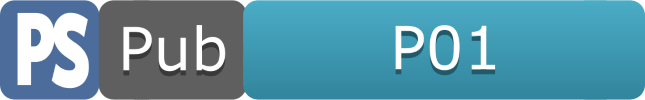
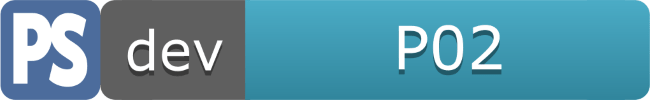
s-P01.01.P02: Staged commit
Staged commit

All revisions updated to match published commit:
 - index.html
 - 00-00-scroll.js
 - 01-00-introduction.html
 - 01-00-scroll.js
 - 01-01-howtouse.html
 - 01-01-scroll.js
 - 01-02-paying.html
 - 01-02-scroll.js
 - 80-00-finally.html
 - 80-00-scroll.js
 - 02-00-concept.html
 - 03-00-install.html
 - 04-00-linking.html
 - 05-00-brackets.html
 - 06-00-example.html
 - 07-00-regression.html
 - 08-00-remotes.html
 - 09-00-github.html
 - 10-00-collaboration.html
 - 90-00-appendices.html
 - style.css

diff --git a/5-2361-website-source/01-02-paying.html b/5-2361-website-source/01-02-paying.html
@@ -41,6 +41,8 @@ This is a complete summary of all software modifications.
 
 Date          Issue        Author         Reason for Modification
 *******************************************************************************
+10 Jun 2017   P02          M. Gledhill    Published
+
 08 Jun 2017   t-P01.01.04  M. Gledhill    Top navigation link corrected
 
 06 Jun 2017   d-P01.01.03  M. Gledhill    Page created
@@ -147,7 +149,7 @@ Date          Issue        Author         Reason for Modification
             <div class="rg-row title-row">                      <!-- Start of title row (section number & heading) -->
                   <div class="rg-col rg-span1-5">
                     <aside class="aside-left aside-left-rev" style="margin-top: 0.1rem;">       <!-- Start of left side bar -->
-                        <img src="11-resources/02-images/02-build-status//branch-d-01-intro-bl-min.svg"> <!-- Build status -->
+                        <img src="11-resources/02-images/02-build-status/build-badge.svg"> <!-- Build status -->
                     </aside>                                    <!-- End of left side bar   -->
                 </div>                                          <!-- End of Left column -->
                 <div class="rg-col rg-span3-5 title-centre">    <!-- Start of title (centre column) -->
@@ -156,7 +158,7 @@ Date          Issue        Author         Reason for Modification
                 </div>                                          <!-- End of title (centre column) -->
                 <div class="rg-col rg-span1-5">                 <!-- Start of right column   -->
                     <aside class="aside-right-rev">              <!-- Start of right side bar -->
-<!--REVISION-->         <p>Rev: 01-02&nbsp;&mdash;&nbsp;t-P01.01.04</p>           <!-- Revision information    -->
+<!--REVISION-->         <p>Rev: 01-02&nbsp;&mdash;&nbsp;P02</p>           <!-- Revision information    -->
                     </aside>                                    <!-- End of right side bar   -->
                 </div>                                          <!-- End of right column     -->
             </div>                                              <!-- End of title row (section number & heading) -->

diff --git a/5-2361-website-source/01-00-introduction.html b/5-2361-website-source/01-00-introduction.html
@@ -41,6 +41,8 @@ This is a complete summary of all software modifications.
 
 Date          Issue        Author         Reason for Modification
 *******************************************************************************
+10 Jun 2017   P02          M. Gledhill    Published
+
 08 Jun 2017   t-P01.01.04  M. Gledhill    Top navigation link corrected
                                           Aside changed to a title
 
@@ -148,7 +150,7 @@ Date          Issue        Author         Reason for Modification
             <div class="rg-row title-row">                      <!-- Start of title row (section number & heading) -->
                   <div class="rg-col rg-span1-5">
                     <aside class="aside-left aside-left-rev" style="margin-top: 0.1rem;">       <!-- Start of left side bar -->
-                        <img src="11-resources/02-images/02-build-status/branch-d-01-intro-bl-min.svg"> <!-- Build status -->
+                        <img src="11-resources/02-images/02-build-status/build-badge.svg"> <!-- Build status -->
                     </aside>                                    <!-- End of left side bar   -->
                 </div>                                          <!-- End of Left column -->
                 <div class="rg-col rg-span3-5 title-centre">    <!-- Start of title (centre column) -->
@@ -157,7 +159,7 @@ Date          Issue        Author         Reason for Modification
                 </div>                                          <!-- End of title (centre column) -->
                 <div class="rg-col rg-span1-5">                 <!-- Start of right column  -->
                     <aside class="aside-right-rev">              <!-- Start of right side bar -->
-<!--REVISION-->         <p>Rev: 01-00&nbsp;&mdash;&nbsp;t-P01.01.04</p>   <!-- Revision information    -->
+<!--REVISION-->         <p>Rev: 01-00&nbsp;&mdash;&nbsp;P02</p>   <!-- Revision information    -->
                     </aside>                                    <!-- End of right side bar   -->
                 </div>                                          <!-- End of right column  -->
             </div>                                              <!-- End of title row (section number & heading) -->

diff --git a/5-2361-website-source/01-01-howtouse.html b/5-2361-website-source/01-01-howtouse.html
@@ -41,6 +41,8 @@ This is a complete summary of all software modifications.
 
 Date          Issue        Author         Reason for Modification
 *******************************************************************************
+10 Jun 2017   P02          M. Gledhill    Published
+
 06 Jun 2017   t-P01.01.04  M. Gledhill    Minor proofreading corrections
 
 06 Jun 2017   d-P01.01.02  M. Gledhill    Page created
@@ -146,7 +148,7 @@ Date          Issue        Author         Reason for Modification
             <div class="rg-row title-row">                      <!-- Start of title row (section number & heading) -->
                   <div class="rg-col rg-span1-5">
                     <aside class="aside-left aside-left-rev" style="margin-top: 0.1rem;">       <!-- Start of left side bar -->
-                        <img src="11-resources/02-images/02-build-status/branch-d-01-intro-bl-min.svg"> <!-- Build status -->
+                        <img src="11-resources/02-images/02-build-status/build-badge.svg"> <!-- Build status -->
                     </aside>                                    <!-- End of left side bar   -->
                 </div>                                          <!-- End of Left column -->
                 <div class="rg-col rg-span3-5 title-centre">    <!-- Start of title (centre column) -->
@@ -155,7 +157,7 @@ Date          Issue        Author         Reason for Modification
                 </div>                                          <!-- End of title (centre column) -->
                 <div class="rg-col rg-span1-5">                 <!-- Start of right column   -->
                     <aside class="aside-right-rev">              <!-- Start of right side bar -->
-<!--REVISION-->         <p>Rev: 01-01&nbsp;&mdash;&nbsp;t-P01.01.04</p>   <!-- Revision information    -->
+<!--REVISION-->         <p>Rev: 01-01&nbsp;&mdash;&nbsp;P02</p>   <!-- Revision information    -->
                     </aside>                                    <!-- End of right side bar   -->
                 </div>                                          <!-- End of right column     -->
             </div>                                              <!-- End of title row (section number & heading) -->

diff --git a/5-2361-website-source/80-00-finally.html b/5-2361-website-source/80-00-finally.html
@@ -41,6 +41,8 @@ This is a complete summary of all software modifications.
 
 Date          Issue        Author         Reason for Modification
 *******************************************************************************
+10 Jun 2017   P02          M. Gledhill    Published
+
 10 Jun 2017   t-P01.01.04  M. Gledhill    Navigation links set to correct
                                           locations
 
@@ -152,7 +154,7 @@ Date          Issue        Author         Reason for Modification
             <div class="rg-row title-row">                      <!-- Start of title row (section number & heading) -->
                 <div class="rg-col rg-span1-5">
                     <aside class="aside-left aside-left-rev" style="margin-top: 0.1rem;">            <!-- Start of left side bar -->
-                        <img src="11-resources/02-images/02-build-status/branch-d-01-intro-bl-min.svg">                 <!-- Build status -->
+                        <img src="11-resources/02-images/02-build-status/build-badge.svg">                 <!-- Build status -->
                     </aside>                                    <!-- End of right side bar   -->
 
                 </div>           <!-- End of Left column -->
@@ -162,7 +164,7 @@ Date          Issue        Author         Reason for Modification
                 </div>                                          <!-- End of title (centre column) -->
                 <div class="rg-col rg-span1-5">                 <!-- Start of right column   -->
                     <aside class="aside-right-rev">              <!-- Start of right side bar -->
-<!--REVISION-->         <p>Rev: 80-00&nbsp;&mdash;&nbsp;t-P01.01.04</p>
+<!--REVISION-->         <p>Rev: 80-00&nbsp;&mdash;&nbsp;P02</p>
                     </aside>                                    <!-- End of right side bar   -->
                 </div>                                          <!-- End of right column     -->
             </div>                                              <!-- End of title row (section number & heading) -->

diff --git a/5-2361-website-source/index.html b/5-2361-website-source/index.html
@@ -41,6 +41,8 @@ This is a complete summary of all software modifications.
 
 Date          Issue        Author         Reason for Modification
 *******************************************************************************
+10 Jun 2017   P02          M. Gledhill    Published (Section 01 added)
+
 10 Jun 2017   t-P01.01.04  M. Gledhill    TOC updated for section 01
 
 04 Jun 2017   P01          M. Gledhill    First published
@@ -150,7 +152,7 @@ Date          Issue        Author         Reason for Modification
             <div class="rg-row">                                <!-- Start of cover row -->
                 <div class="rg-col rg-span1-5">
                     <aside class="aside-left aside-left-rev" style="margin-top: 1.6rem;">            <!-- Start of left side bar -->
-                        <img src="11-resources/02-images/02-build-status/branch-d-01-intro-bl-min.svg">                 <!-- Build status -->
+                        <img src="11-resources/02-images/02-build-status/build-badge.svg">                 <!-- Build status -->
                     </aside>                                    <!-- End of right side bar   -->
 
                 </div>           <!-- End of Left column -->
@@ -167,7 +169,7 @@ Date          Issue        Author         Reason for Modification
                 </div>                                          <!-- End of cover area (centre column -->
                 <div class="rg-col rg-span1-5">                 <!-- Start of right column  -->
                     <aside class="aside-right-rev" style="margin-top: 1.6rem">             <!-- Start of right side bar -->
-<!--REVISION-->         <p>Rev: 1002:&nbsp;&mdash;&nbsp;t-P01.01.04</p>
+<!--REVISION-->         <p>Rev: 1002:&nbsp;&mdash;&nbsp;P02</p>
                     </aside>                                    <!-- End of right side bar   -->
                 </div>                                          <!-- End of right column  -->
             </div>                                              <!-- End of cover row -->

diff --git a/5-2361-website-source/04-00-linking.html b/5-2361-website-source/04-00-linking.html
@@ -23,7 +23,7 @@ PRACTICALSERIES: Practical Series of Publications by Michael Gledhill
 
 
 *******************************************************************************
-Title :          BRACKETS-GIT & GITHUB VCS                   04-00-linking.HTML
+Title :          BRACKETS-GIT & GITHUB VCS                   04-00-LINKING.HTML
 *******************************************************************************
 DETAILS
 
@@ -41,6 +41,8 @@ This is a complete summary of all software modifications.
 
 Date          Issue        Author         Reason for Modification
 *******************************************************************************
+10 Jun 2017   P02          M. Gledhill    Published
+
 10 Jun 2017   t-P01.01.04  M. Gledhill    Page created
 *************************************************************************** -->
 
@@ -156,7 +158,7 @@ Date          Issue        Author         Reason for Modification
                 </div>                                          <!-- End of title (centre column) -->
                 <div class="rg-col rg-span1-5">                 <!-- Start of right column   -->
                     <aside class="aside-right-rev">              <!-- Start of right side bar -->
-<!--REVISION-->         <p>Rev: 04-00&nbsp;&mdash;&nbsp;t-P01.01.04</p>
+<!--REVISION-->         <p>Rev: 04-00&nbsp;&mdash;&nbsp;P02</p>
                     </aside>                                    <!-- End of right side bar   -->
                 </div>                                          <!-- End of right column     -->
             </div>                                              <!-- End of title row (section number & heading) -->

diff --git a/5-2361-website-source/02-00-concept.html b/5-2361-website-source/02-00-concept.html
@@ -41,6 +41,8 @@ This is a complete summary of all software modifications.
 
 Date          Issue        Author         Reason for Modification
 *******************************************************************************
+10 Jun 2017   P02          M. Gledhill    Published
+
 10 Jun 2017   t-P01.01.04  M. Gledhill    Page created
 *************************************************************************** -->
 
@@ -156,7 +158,7 @@ Date          Issue        Author         Reason for Modification
                 </div>                                          <!-- End of title (centre column) -->
                 <div class="rg-col rg-span1-5">                 <!-- Start of right column   -->
                     <aside class="aside-right-rev">              <!-- Start of right side bar -->
-<!--REVISION-->         <p>Rev: 02-00&nbsp;&mdash;&nbsp;t-P01.01.04</p>
+<!--REVISION-->         <p>Rev: 02-00&nbsp;&mdash;&nbsp;P02</p>
                     </aside>                                    <!-- End of right side bar   -->
                 </div>                                          <!-- End of right column     -->
             </div>                                              <!-- End of title row (section number & heading) -->

diff --git a/5-2361-website-source/03-00-install.html b/5-2361-website-source/03-00-install.html
@@ -41,6 +41,8 @@ This is a complete summary of all software modifications.
 
 Date          Issue        Author         Reason for Modification
 *******************************************************************************
+10 Jun 2017   P02          M. Gledhill    Published
+
 10 Jun 2017   t-P01.01.04  M. Gledhill    Page created
 *************************************************************************** -->
 
@@ -156,7 +158,7 @@ Date          Issue        Author         Reason for Modification
                 </div>                                          <!-- End of title (centre column) -->
                 <div class="rg-col rg-span1-5">                 <!-- Start of right column   -->
                     <aside class="aside-right-rev">              <!-- Start of right side bar -->
-<!--REVISION-->         <p>Rev: 03-00&nbsp;&mdash;&nbsp;t-P01.01.04</p>
+<!--REVISION-->         <p>Rev: 03-00&nbsp;&mdash;&nbsp;P02</p>
                     </aside>                                    <!-- End of right side bar   -->
                 </div>                                          <!-- End of right column     -->
             </div>                                              <!-- End of title row (section number & heading) -->

diff --git a/5-2361-website-source/05-00-brackets.html b/5-2361-website-source/05-00-brackets.html
@@ -41,6 +41,8 @@ This is a complete summary of all software modifications.
 
 Date          Issue        Author         Reason for Modification
 *******************************************************************************
+10 Jun 2017   P02          M. Gledhill    Published
+
 10 Jun 2017   t-P01.01.04  M. Gledhill    Page created
 *************************************************************************** -->
 
@@ -156,7 +158,7 @@ Date          Issue        Author         Reason for Modification
                 </div>                                          <!-- End of title (centre column) -->
                 <div class="rg-col rg-span1-5">                 <!-- Start of right column   -->
                     <aside class="aside-right-rev">              <!-- Start of right side bar -->
-<!--REVISION-->         <p>Rev: 05-00&nbsp;&mdash;&nbsp;t-P01.01.04</p>
+<!--REVISION-->         <p>Rev: 05-00&nbsp;&mdash;&nbsp;P02</p>
                     </aside>                                    <!-- End of right side bar   -->
                 </div>                                          <!-- End of right column     -->
             </div>                                              <!-- End of title row (section number & heading) -->

diff --git a/5-2361-website-source/06-00-example.html b/5-2361-website-source/06-00-example.html
@@ -41,6 +41,8 @@ This is a complete summary of all software modifications.
 
 Date          Issue        Author         Reason for Modification
 *******************************************************************************
+10 Jun 2017   P02          M. Gledhill    Published
+
 10 Jun 2017   t-P01.01.04  M. Gledhill    Page created
 *************************************************************************** -->
 
@@ -157,7 +159,7 @@ Date          Issue        Author         Reason for Modification
                 </div>                                          <!-- End of title (centre column) -->
                 <div class="rg-col rg-span1-5">                 <!-- Start of right column   -->
                     <aside class="aside-right-rev">              <!-- Start of right side bar -->
-<!--REVISION-->         <p>Rev: 06-00&nbsp;&mdash;&nbsp;t-P01.01.04</p>
+<!--REVISION-->         <p>Rev: 06-00&nbsp;&mdash;&nbsp;P02</p>
                     </aside>                                    <!-- End of right side bar   -->
                 </div>                                          <!-- End of right column     -->
             </div>                                              <!-- End of title row (section number & heading) -->

diff --git a/5-2361-website-source/07-00-regression.html b/5-2361-website-source/07-00-regression.html
@@ -41,6 +41,8 @@ This is a complete summary of all software modifications.
 
 Date          Issue        Author         Reason for Modification
 *******************************************************************************
+10 Jun 2017   P02          M. Gledhill    Published
+
 10 Jun 2017   t-P01.01.04  M. Gledhill    Page created
 *************************************************************************** -->
 
@@ -156,7 +158,7 @@ Date          Issue        Author         Reason for Modification
                 </div>                                          <!-- End of title (centre column) -->
                 <div class="rg-col rg-span1-5">                 <!-- Start of right column   -->
                     <aside class="aside-right-rev">              <!-- Start of right side bar -->
-<!--REVISION-->         <p>Rev: 07-00&nbsp;&mdash;&nbsp;t-P01.01.04</p>
+<!--REVISION-->         <p>Rev: 07-00&nbsp;&mdash;&nbsp;P02</p>
                     </aside>                                    <!-- End of right side bar   -->
                 </div>                                          <!-- End of right column     -->
             </div>                                              <!-- End of title row (section number & heading) -->

diff --git a/5-2361-website-source/08-00-remotes.html b/5-2361-website-source/08-00-remotes.html
@@ -41,6 +41,8 @@ This is a complete summary of all software modifications.
 
 Date          Issue        Author         Reason for Modification
 *******************************************************************************
+10 Jun 2017   P02          M. Gledhill    Published
+
 10 Jun 2017   t-P01.01.04  M. Gledhill    Page created
 *************************************************************************** -->
 
@@ -156,7 +158,7 @@ Date          Issue        Author         Reason for Modification
                 </div>                                          <!-- End of title (centre column) -->
                 <div class="rg-col rg-span1-5">                 <!-- Start of right column   -->
                     <aside class="aside-right-rev">              <!-- Start of right side bar -->
-<!--REVISION-->         <p>Rev: 08-00&nbsp;&mdash;&nbsp;t-P01.01.04</p>
+<!--REVISION-->         <p>Rev: 08-00&nbsp;&mdash;&nbsp;P02</p>
                     </aside>                                    <!-- End of right side bar   -->
                 </div>                                          <!-- End of right column     -->
             </div>                                              <!-- End of title row (section number & heading) -->
